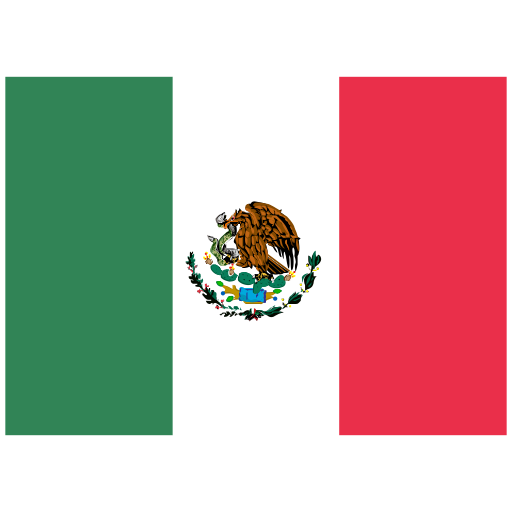
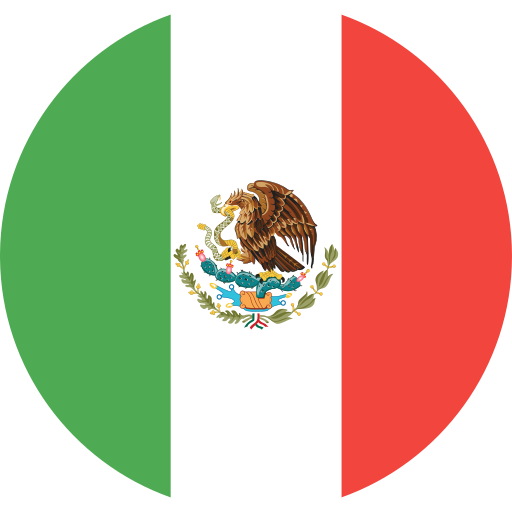
Se actualizo la apariencia

diff --git a/src/estilos/vistas/Apariencia.css b/src/estilos/vistas/Apariencia.css
@@ -44,7 +44,7 @@
   flex: 1;
 
   display: flex;
-  justify-content: space-between;
+  justify-content: space-;
   gap: 10px;
 }
 .Apariencia__Cuerpo__Ejemplo--Imagen {
@@ -56,25 +56,27 @@
   gap: 10px;
 }
 .Apariencia__Cuerpo__Ejemplo--Imagen img {
-  border-radius: 20px;
   padding: 5px;
   border: 3px dashed transparent;
   transition: 0.3s ease-in-out all;
-  width: 90%;
+  width: 50%;
   cursor: pointer;
 }
-.Apariencia__Cuerpo__Ejemplo--Imagen.Idioma img {
+/* .Apariencia__Cuerpo__Ejemplo--Imagen.Idioma img {
   width: 50%;
-}
+} */
 .Apariencia__Cuerpo__Ejemplo--Imagen:hover img {
+  border-radius: 50%;
   border: 3px dashed var(--ColorAzul);
 }
 .Apariencia__Cuerpo__Ejemplo--Imagen.Oscuro img {
-  border: 3px dashed var(--ColorAzul);
+  border-radius: 50%;
+  border: 3px dashed var(--ColorVerde);
   pointer-events: none;
 }
 .Apariencia__Cuerpo__Ejemplo--Imagen.Idioma.Seleccionado img {
-  border: 3px dashed var(--ColorAzul);
+  border-radius: 50%;
+  border: 3px dashed var(--ColorVerde);
   pointer-events: none;
 }
 .Apariencia__Cuerpo__Ejemplo--Imagen b {
@@ -86,10 +88,10 @@
   color: var(--ColorAzul);
 }
 .Apariencia__Cuerpo__Ejemplo--Imagen.Oscuro b {
-  color: var(--ColorAzul);
+  color: var(--ColorVerde);
 }
 .Apariencia__Cuerpo__Ejemplo--Imagen.Idioma.Seleccionado b {
-  color: var(--ColorAzul);
+  color: var(--ColorVerde);
 }
 @media (width <= 950px) {
   .Apariencia__Cuerpo {
